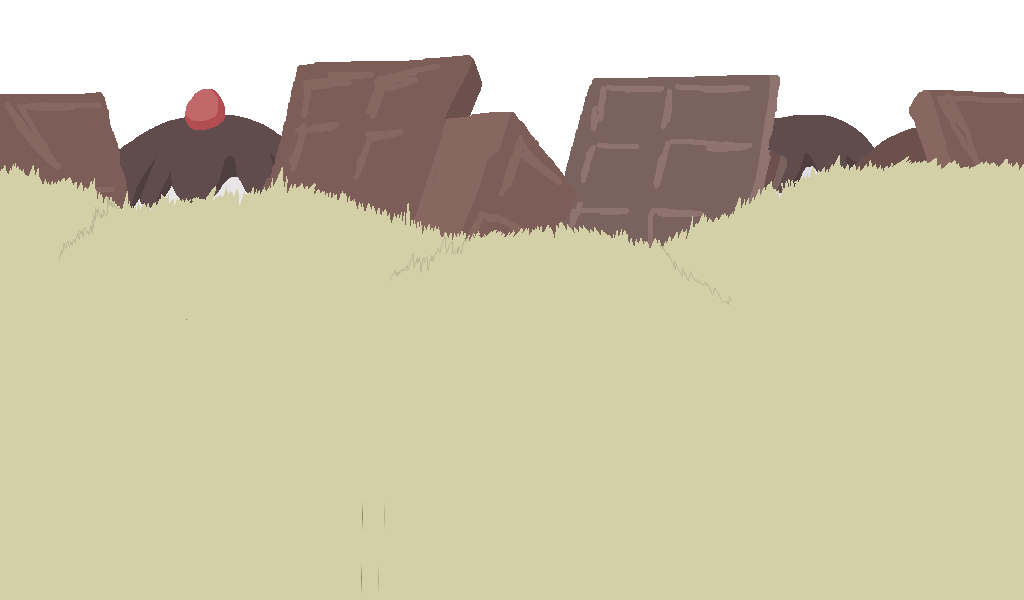
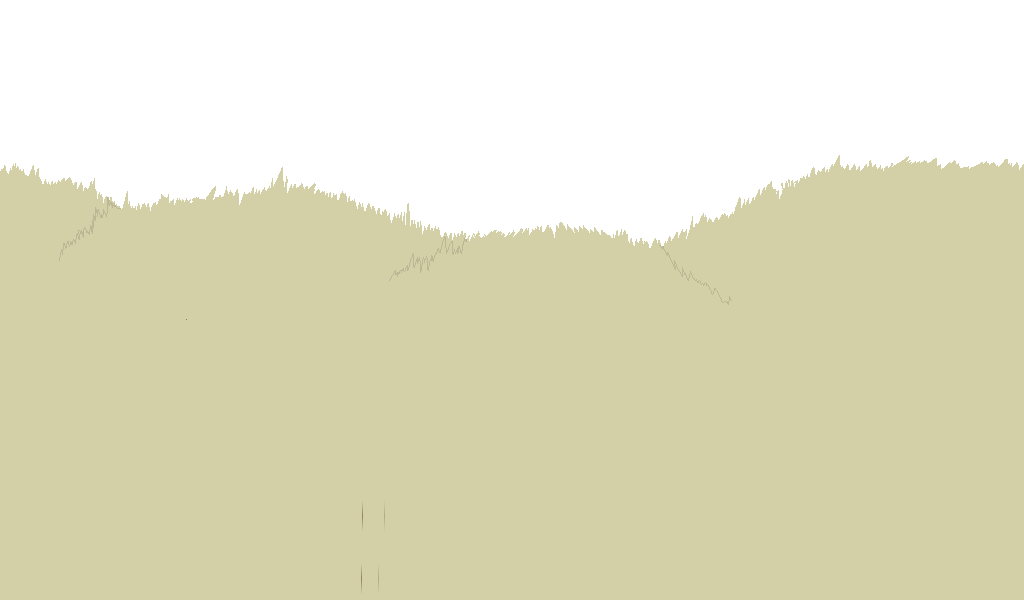
pikelet stuff

Changed region(s): [[0.0, 0.09, 1.0, 0.42]]

diff --git a/Backgrounds/ConfectionSurfaceBackgroundStyle.cs b/Backgrounds/ConfectionSurfaceBackgroundStyle.cs
@@ -50,8 +50,10 @@ namespace TheConfectionRebirth.Backgrounds
         public Asset<Texture2D> GetFarTexture(int i)
         {
             if (i == 0)
-                return ModContent.Request<Texture2D>("TheConfectionRebirth/Backgrounds/ConfectionSurface3Far");
+                return ModContent.Request<Texture2D>("TheConfectionRebirth/Backgrounds/ConfectionSurfaceFar");
             else if (i == 1)
+                return ModContent.Request<Texture2D>("TheConfectionRebirth/Backgrounds/ConfectionSurface1Far");
+            else if (i == 2)
                 return ModContent.Request<Texture2D>("TheConfectionRebirth/Backgrounds/ConfectionSurface2Far");
             return ModContent.Request<Texture2D>("TheConfectionRebirth/Backgrounds/ConfectionSurface3Far");
         }
@@ -59,8 +61,10 @@ namespace TheConfectionRebirth.Backgrounds
         public Asset<Texture2D> GetCloseTexture(int i)
         {
             if (i == 0)
-                return ModContent.Request<Texture2D>("TheConfectionRebirth/Backgrounds/ConfectionSurface3Close");
+                return ModContent.Request<Texture2D>("TheConfectionRebirth/Backgrounds/ConfectionSurfaceClose");
             else if (i == 1)
+                return ModContent.Request<Texture2D>("TheConfectionRebirth/Backgrounds/ConfectionSurface1Close");
+            else if (i == 2)
                 return ModContent.Request<Texture2D>("TheConfectionRebirth/Backgrounds/ConfectionSurface2Close");
             return ModContent.Request<Texture2D>("TheConfectionRebirth/Backgrounds/ConfectionSurface3Close");
         }
@@ -68,8 +72,10 @@ namespace TheConfectionRebirth.Backgrounds
         public Asset<Texture2D> GetMidTexture(int i)
         {
             if (i == 0)
-                return ModContent.Request<Texture2D>("TheConfectionRebirth/Backgrounds/ConfectionSurface3Mid");
+                return ModContent.Request<Texture2D>("TheConfectionRebirth/Backgrounds/ConfectionSurfaceMid");
             else if (i == 1)
+                return ModContent.Request<Texture2D>("TheConfectionRebirth/Backgrounds/ConfectionSurface1Mid");
+            else if (i == 2)
                 return ModContent.Request<Texture2D>("TheConfectionRebirth/Backgrounds/ConfectionSurface2Mid");
             return ModContent.Request<Texture2D>("TheConfectionRebirth/Backgrounds/ConfectionSurface3Mid");
         }
@@ -77,8 +83,10 @@ namespace TheConfectionRebirth.Backgrounds
         public Asset<Texture2D> GetUltraFarTexture(int i)
         {
             if (i == 0)
-                return ModContent.Request<Texture2D>("TheConfectionRebirth/Backgrounds/ConfectionSurface3UltraFar");
+                return ModContent.Request<Texture2D>("TheConfectionRebirth/Backgrounds/ConfectionSurfaceUltraFar");
             else if (i == 1)
+                return ModContent.Request<Texture2D>("TheConfectionRebirth/Backgrounds/ConfectionSurface1UltraFar");
+            else if (i == 2)
                 return ModContent.Request<Texture2D>("TheConfectionRebirth/Backgrounds/ConfectionSurface2UltraFar");
             return ModContent.Request<Texture2D>("TheConfectionRebirth/Backgrounds/ConfectionSurface3UltraFar");
         }

diff --git a/Items/Weapons/CookieCrumbler.cs b/Items/Weapons/CookieCrumbler.cs
@@ -1,6 +1,8 @@
 using Terraria.GameContent.Creative;
 using Terraria.ID;
 using Terraria.ModLoader;
+using TheConfectionRebirth.Projectiles;
+using Terraria;
 
 namespace TheConfectionRebirth.Items.Weapons
 {
@@ -15,19 +17,29 @@ namespace TheConfectionRebirth.Items.Weapons
         public override void SetDefaults()
         {
             Item.damage = 40;
+            Item.useStyle = ItemUseStyleID.Shoot;
+            Item.useAnimation = 18;
+            Item.useTime = 24;
+            Item.shootSpeed = 3.7f;
+            Item.knockBack = 6.5f;
+            Item.width = 32;
+            Item.height = 32;
+            Item.scale = 1f;
+            Item.rare = ItemRarityID.Pink;
+            Item.value = Item.sellPrice(silver: 460);
+
             Item.DamageType = DamageClass.Melee;
-            Item.width = 40;
-            Item.height = 40;
-            Item.useTime = 15;
-            Item.useAnimation = 20;
-            Item.useStyle = 1;
-            Item.knockBack = 6;
-            Item.value = 400000;
-            Item.rare = ItemRarityID.Purple;
+            Item.noMelee = true;
+            Item.noUseGraphic = true;
+
             Item.UseSound = SoundID.Item1;
-            Item.autoReuse = true;
-            Item.shoot = Mod.Find<ModProjectile>("CookiePikelet").Type;
+            Item.shoot = ModContent.ProjectileType<CookiePikelet>();
             Item.shootSpeed = 10f;
+        }
+
+        public override bool CanUseItem(Player player)
+        {
+            return player.ownedProjectileCounts[Item.shoot] < 1;
         }
     }
 }

diff --git a/Backgrounds/MenuBackgrounds/ConfectionMenuBackground.cs b/Backgrounds/MenuBackgrounds/ConfectionMenuBackground.cs
@@ -52,7 +52,7 @@ namespace TheConfectionRebirth.Backgrounds.MenuBackgrounds
 
         public Asset<Texture2D> GetCloseTexture(int i)
         {
-            return ModContent.Request<Texture2D>("TheConfectionRebirth/Backgrounds/ConfectionSurfaceClose");
[1 lines of base64/hex data omitted]
         }
 
         public Asset<Texture2D> GetMidTexture(int i)
@@ -62,7 +62,7 @@ namespace TheConfectionRebirth.Backgrounds.MenuBackgrounds
 
         public Asset<Texture2D> GetUltraFarTexture(int i)
         {
-            return ModContent.Request<Texture2D>("TheConfectionRebirth/Backgrounds/ConfectionSurfaceFar");
+            return ModContent.Request<Texture2D>("TheConfectionRebirth/Backgrounds/ConfectionSurfaceUltraFar");
         }
     }
 }

diff --git a/Projectiles/CookiePikelet.cs b/Projectiles/CookiePikelet.cs
@@ -6,10 +6,10 @@ using Terraria.ModLoader;
 
 namespace TheConfectionRebirth.Projectiles
 {
-	public class ExampleSpearProjectile : ModProjectile
+	public class CookiePikelet : ModProjectile
 	{
-		protected virtual float HoldoutRangeMin => 24f;
-		protected virtual float HoldoutRangeMax => 96f;
+		protected virtual float HoldoutRangeMin => 98f;
+		protected virtual float HoldoutRangeMax => 180f;
 
 		public override void SetStaticDefaults() {
 			DisplayName.SetDefault("Spear");
